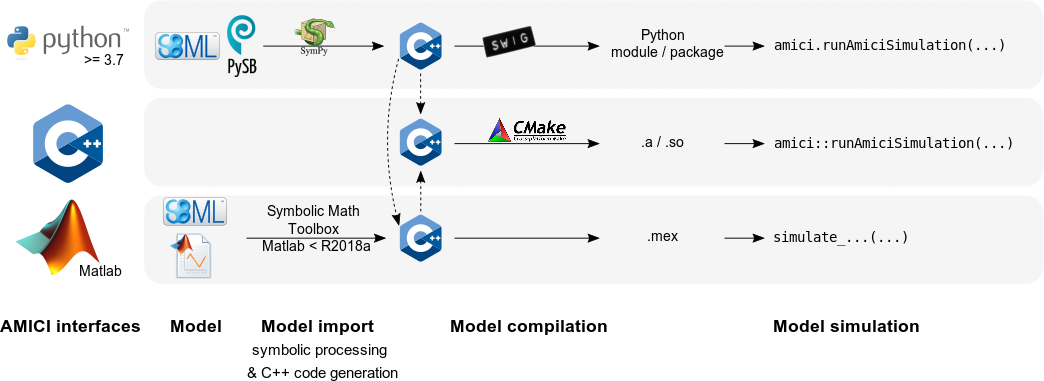
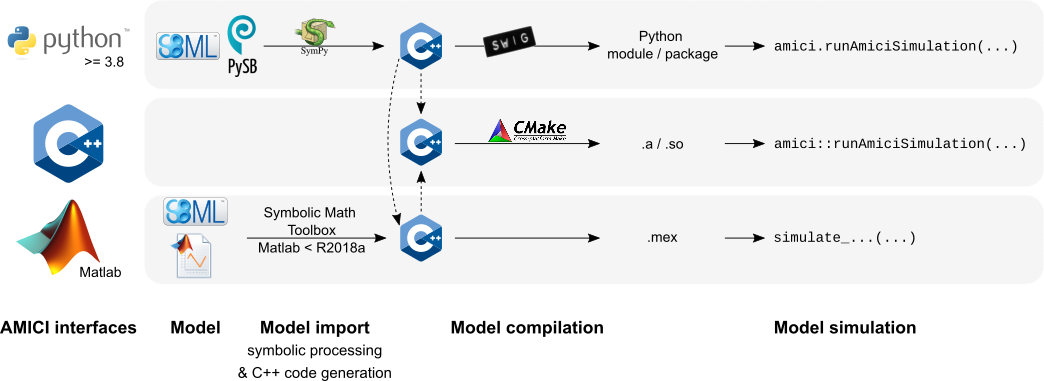
Doc: Update Python requirement

diff --git a/documentation/README.md b/documentation/README.md
@@ -67,7 +67,7 @@ Graphics for documentation are kept in `documentation/gfx/`.
 
 ### When using Markdown
 
-* Note that there are some incompatibilities of Github Markdown and Doxygen
+* Note that there are some incompatibilities of GitHub Markdown and Doxygen
   Markdown. Ideally documentation should be written in a format compatible with
   both.
   This affects for example images links which currently cause trouble in

diff --git a/documentation/python_installation.rst b/documentation/python_installation.rst
@@ -8,7 +8,7 @@ Short guide
 
 Installation of the AMICI Python package has the following prerequisites:
 
-* Python>=3.7
+* Python>=3.8
 * :term:`SWIG`>=3.0
 * CBLAS compatible BLAS library
   (e.g., OpenBLAS, CBLAS, Atlas, Accelerate, Intel MKL)
